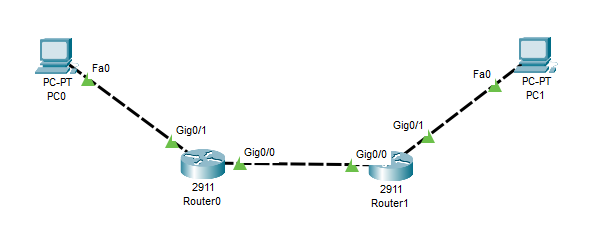
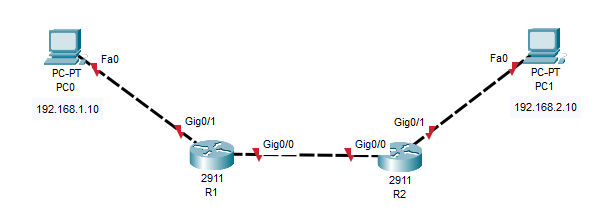
update project

Changed region(s): [[0.0604, 0.1081, 0.9664, 0.8919], [0.8456, 0.4595, 0.9664, 0.5135], [0.0604, 0.4595, 0.1812, 0.5135]]

diff --git a/client/src/views/LAB1.vue b/client/src/views/LAB1.vue
@@ -3,7 +3,7 @@
     <!-- HEADER 1 -->
     <p class="display-2 font-weight-bold mb-3">LAB 1</p>
     <p class="title font-regular">
-      แลปนี้จะเกี่ยวกับการใช้คำสั่งพื้นฐานทั่วไปครับ
+      แลปนี้จะเกี่ยวกับการใช้คำสั่งพื้นฐานทั่วไป
     </p>
 
     <!-- brief -->
@@ -17,7 +17,7 @@
           </p>
           <p class="subtitle-1 text--primary">
             โดยแลปนี้จะเป็นการใช้คำสั่งพื้นฐานทั่วไป เพื่อให้เกิดความคุ้นชินกับคำสั่งที่จะได้ใช้บ่อยๆในการทำแลป <br />
-            เช่น การใช้คำสั่งเพื่อดูค่าที่เราพึ่งตั้งค่าไปหรือการเข้าสู่โหมดต่างๆ และทริคที่จะทำให้ลดเวลาการพิมพ์ได้
+            เช่น การใช้คำสั่งเพื่อดูค่าที่เราพึ่งตั้งค่าไปหรือการเข้าสู่โหมดต่างๆ
           </p>
         </v-card-text>
       </v-card>
@@ -26,20 +26,198 @@
 
     <!-- 1 -->
     <v-row align="center" justify="center">
-      <v-card class="mx-auto" max-width="1500" max-height="2500">
-        <v-card-text>
-          <p class="headline text--primary">คำสั่งเพื่อเข้าสู่โหมดต่างๆ</p>
-          <p class="subtitle-1 text--primary align-right">
-            เข้าสู๋โหมด Privileged Exec หรือบางครั้งจะเรียกว่า Enable mode <br />
-            Router> enable <br />
-            Router# <br />
-            Router# configuration terminal <br />
-            Router(config)# <br />
+      <v-col>
+        <v-card class="mx-auto text-left" min-width="300" min-height="400">
+          <v-card-title>
+            <p class="headline text--primary">คำสั่งเพื่อเข้าสู่โหมดต่างๆ</p>
+          </v-card-title>
+          <v-card-subtitle>
+            <p class="subtitle-1 text--primary">
+              โหมด User<br />
+              Router><br />
+              เข้าสู่โหมด Privileged หรือบางครั้งจะเรียกว่า Enable mode <br />
+              Router> enable <br />
+              Router# <br />
+              เข้าสู่โหมด Global Configuration<br />
+              Router# configuration terminal <br />
+              Router(config)# <br />
+            </p>
+          </v-card-subtitle>
+        </v-card>
+      </v-col>
+      <v-col>
+        <v-card class="mx-auto text-left" min-width="300" min-height="400">
+          <v-card-title>
+            <p class="headline text--primary">
+              อธิบายการใช้งานของแต่ละโหมด
+            </p>
+          </v-card-title>
+          <v-card-subtitle>
+            <p class="subtitle-1 text--primary">
+              User Mode : Prompt ของโหมดนี้จะมีสัญลักษณ์คือ ">" ต่อท้าย
+              โดยโหมดนี้เป็นโหมดที่ไว้ใช้ดูการทำงานทั่วไป
+              สามารถใช้คำสั่งพื้นฐานทั่วไปได้
+              เช่น ping , traceroute , show ip interface เป็นต้น
+            </p>
+            <p class="subtitle-1 text--primary">
+              Privileged Mode : Prompt ของโหมดนี้จะมีสัญลักษณ์คือ "#" ต่อท้าย
+              โดยโหมดนี้สามารถตั้งค่าต่างๆได้
+            </p>
+            <p class="subtitle-1 text--primary">
+              Global Configuration Mode : Prompt ของโหมดนี้จะมีสัญลักษณ์คือ "(config)#" ต่อท้าย
+              โดยโหมดนี้จะสามารถตั้งค่าต่างๆที่ส่งผลกับตัวอุปกรณ์เช่นตั้งค่า Interface ของ Router
+            </p>
+          </v-card-subtitle>
+        </v-card>
+      </v-col>
+    </v-row>
+    <br/>
+
+    <v-row align="center" justify="center">
+      <v-card class="mx-auto text-left" min-width="300" min-height="100">
+        <v-card-title>
+          <p class="headline text--primary">สิ่งที่จะทำในแลปนี้</p>
+        </v-card-title>
+        <v-card-subtitle>
+          <p class="subtitle-1 text--primary">
+            1.เปลี่ยน Hostname จาก Router เป็น R1 ที่ R1<br/>
+            2.เปลี่ยน Hostname จาก Router เป็น R2 ที่ R2<br/>
+            3.ตั้งค่ารหัสผ่านให้กับ R1 และ R2 โดยให้รหัสผ่านคือ LAB1<br/>
+            4.Assign IP ให้กับ R1 ที่ interface GigabitEthernet0/0 โดย IP address คือ 1.1.1.1<br/>
+            5.Assign IP ให้กับ R2 ที่ interface GigabitEthernet0/0 โดย IP address คือ 1.1.1.2<br/>
+            6.Assign IP ให้กับ R1 ที่ interface GigabitEthernet0/1 โดย IP address คือ 192.168.1.1<br/>
+            7.Assign IP ให้กับ R2 ที่ interface GigabitEthernet0/1 โดย IP address คือ 192.168.2.1<br/>
+            8.Set static route ให้กับ R1 เชื่อมต่อไปที่ PC1 ผ่าน R2<br/>
+            9.Set static route ให้กับ R2 เชื่อมต่อไปที่ PC2 ผ่าน R1<br/>
+            10.ทำให้ R1 สามารถ Ping ไปหา R2 ได้<br/>
+
+            11.ที่ R1 ดูว่ามี config อะไรบ้างที่ run อยู่<br/>
+            12.ที่ R2 ดูว่ามี config อะไรบ้างที่ run อยู่<br/>
+            13.copy running-config ของ R1 ไว้ที่ flash memory<br/>
+            14.copy running-config ของ R2 ไว้ที่ flash memory<br/>
+            15.Assign IP ให้กับ PC0 ที่ interface FastEthernet0 โดย IP คือ 192.168.1.10<br/>
+            16.Assign IP ให้กับ PC1 ที่ interface FastEthernet0 โดย IP คือ 192.168.2.10<br/>
+            17.set Default Gateway ให้กับ PC0 โดย IP คือ 192.168.1.1<br/>
+            18.set Default Gateway ให้กับ PC1 โดย IP คือ 192.168.2.1<br/>
+            19.หากทำสำเร็จทุกข้อ PC0 และ PC1 จะสามารถติดต่อหากันได้
+            20.ทำการ ปิดและเปิด R1 และ R2 รอจน Boot เสร็จจากนั้น Ping PC0 ไป PC1 หาก Ping ได้แปลว่าทำแลปสำเร็จ<br/>
           </p>
-        </v-card-text>
+        </v-card-subtitle>
       </v-card>
     </v-row>
-    <br />
+    <br/>
+
+    <v-row align="center" justify="center">
+      <v-card class="mx-auto text-left" min-width="300" min-height="100">
+        <v-card-title>
+          <p class="headline text--primary">เฉลยการทำแลป</p>
+        </v-card-title>
+        <v-card-subtitle>
+          <p class="subtitle-1 text--primary">
+            Would you like to enter the initial configuration dialog? [yes/no]: no<br/>
+            1.เปลี่ยน Hostname จาก Router เป็น R1 ที่ R1<br/>
+            Router> enable<br/>
+            Router# config terminal<br/>
+            Router(config)# hostname R1<br/>
+            R1(config)# <br/><br/>
+
+            2.เปลี่ยน Hostname จาก Router เป็น R2 ที่ R2<br/>
+            Router> enable<br/>
+            Router# config terminal<br/>
+            Router(config)# hostname R2<br/>
+            R2(config)# <br/><br/>
+
+            3.ตั้งค่ารหัสผ่านให้กับ R1 และ R2 โดยให้รหัสผ่านคือ LAB1<br/>
+            R1(config)# enable password LAB1<br/>
+            R2(config)# enable password LAB1<br/><br/>
+
+            4.Assign IP ให้กับ R1 ที่ interface GigabitEthernet0/0 โดย IP address คือ 1.1.1.1/24<br/>
+            R1(config)# int g0/0<br/>
+            R1(config-if)# ip address 1.1.1.1 255.255.255.0<br/><br/>
+
+            5.Assign IP ให้กับ R2 ที่ interface GigabitEthernet0/0 โดย IP address คือ 1.1.1.2<br/>
+            R2(config)# int g0/0<br/>
+            R2(config-if)# ip address 1.1.1.2 255.255.255.0<br/><br/>
+
+            6.Assign IP ให้กับ R1 ที่ interface GigabitEthernet0/1 โดย IP address คือ 192.168.1.1<br/>
+            R1(config)# int g0/1<br/>
+            R1(config-if)# ip address 192.168.1.1 255.255.255.0<br/><br/>
+
+            7.Assign IP ให้กับ R2 ที่ interface GigabitEthernet0/1 โดย IP address คือ 192.168.2.1<br/>
+            R2(config)# int g0/1<br/>
+            R2(config-if)# ip address 192.168.2.1 255.255.255.0<br/><br/>
+
+            8.Set static route ให้กับ R1 เชื่อมต่อไปที่ PC1 ผ่าน R2<br/>
+            R1(config)# ip route 192.168.2.0 255.255.255.0 1.1.1.2<br/>
+            <br/>
+            
+            9.Set static route ให้กับ R2 เชื่อมต่อไปที่ PC2 ผ่าน R1<br/>
+            R2(config)# ip route 192.168.1.0 255.255.255.0 1.1.1.1<br/>
+            <br/>
+
+            10.ทำให้ R1 สามารถ Ping ไปหา R2 ได้<br/>
+            - จะสังเกตุเห็นได้ว่าที่ interface GigabitEthernet0/0 นั้นโดน Shutdown ไว้อยู่<br/>
+            R1(config)# int g0/0<br/>
+            R1(config-if)# no shutdown<br/>
+            - เมื่อเราสั่ง no shutdown แล้วจะเห็นว่า เส้นเชื่อมระหว่าง R1 และ R2 นั้นยังแดงอยู่<br/>
+            - เราต้องไป no shutdown ที่ R2 ด้วย จึงจะสามารถ ping หากันได้<br/>
+            R2(config)# int g0/0<br/>
+            R2(config-if)# no shutdown<br/>
+            - ลอง ping จาก R1 ไป R2 ถ้าเรา config ได้ถูกต้องจะสามารถ ping หากันได้<br/>
+            R1# ping 1.1.1.2<br/>
+            <br/>
+
+            11.ที่ R1 ดูว่ามี config อะไรบ้างที่ run อยู่<br/>
+            R1# show running-config<br/>
+            <br/>
+
+            12.ที่ R2 ดูว่ามี config อะไรบ้างที่ run อยู่<br/>
+            R2# show running-config<br/>
+            <br/>
+
+            13.copy running-config ของ R1 ไว้ที่ startup configuration<br/>
+            R1# copy running-config startup-config<br/>
+            Destination filename [startup-config]?<br/>
+            - จะถามชื่อไฟล์ที่เราจะตั้งชือให้เรากดปุ่ม enter<br/>
+            <br/>
+
+            14.copy running-config ของ R2 ไว้ที่ startup configuration<br/>
+            R2# copy running-config startup-config<br/>
+            Destination filename [startup-config]?<br/>
+            - จะถามชื่อไฟล์ที่เราจะตั้งชือให้เรากดปุ่ม enter<br/>
+            <br/>
+
+            15.Assign IP ให้กับ PC0 ที่ interface FastEthernet0 โดย IP คือ 192.168.1.10<br/>
+            - คลิกที่รูป PC0 -> คลิกที่หน้าต่าง config -> คลิกที่ FastEthernet0 -> ที่ช่อง IP Address ใส่ 192.168.1.10 -> ที่ช่อง Subnet Mask ใส่ 255.255.255.0<br/>
+            <br/>
+
+            16.Assign IP ให้กับ PC1 ที่ interface FastEthernet0 โดย IP คือ 192.168.2.10<br/>
+            - คลิกที่รูป PC1 -> คลิกที่หน้าต่าง config -> คลิกที่ FastEthernet0 -> ที่ช่อง IP Address ใส่ 192.168.2.10 -> ที่ช่อง Subnet Mask ใส่ 255.255.255.0<br/>
+            <br/>
+
+            17.set Default Gateway ให้กับ PC0 โดย IP คือ 192.168.1.1<br/>
+            - คลิกที่ Setting -> ที่ช่อง Gateway ใส่ 192.168.1.1<br/>
+            <br/>
+
+            18.set Default Gateway ให้กับ PC1 โดย IP คือ 192.168.2.1<br/>
+            - คลิกที่ Setting -> ที่ช่อง Gateway ใส่ 192.168.2.1<br/>
+            <br/>
+
+            19.หากทำสำเร็จทุกข้อ PC0 และ PC1 จะสามารถติดต่อหากันได้<br/>
+            - ping จาก PC0 ไป PC1<br/>
+            R1# ping 192.168.1.10<br/>
+            - ping จาก PC1 ไป PC0<br/>
+            R2# ping 192.168.2.10<br/>
+            <br/>
+
+            20.ทำการ ปิดและเปิด R1 และ R2 รอจน Boot เสร็จจากนั้น Ping PC0 ไป PC1 หาก Ping ได้แปลว่าทำแลปสำเร็จ<br/>
+            - คลิกที่ Physical -> ตรง Physical Device View จะเป็นการจำลองรูปแบบของ Router จะเห็น Switch เปิด/ปิด ให้เรากดที่ปุ่มนั้น 1 ครั้งและกดย้ำอีก 1 ครั้ง<br/>
+            - รอจน boot เสร็จและลอง ping จาก R1 ไป R2 ถ้าเรา backup config ไว้ก่อนทำการปิดและเปิดเครื่องอีกครั้งเราจะไม่ต้อง config ค่าอะไรก็จะสามารถติดต่อหากันได้<br/>
+            <br/>
+          </p>
+        </v-card-subtitle>
+      </v-card>
+    </v-row>
   </div>
 </template>
 
@@ -47,7 +225,3 @@
 export default {
 };
 </script>
-
-<style>
-
-</style>

diff --git a/client/src/components/bar.vue b/client/src/components/bar.vue
@@ -1,18 +1,16 @@
 <template>
   <div class="my-2">
-    <v-row>
-      <v-btn text @click="toHome">หน้าแรก</v-btn>
-      <v-btn text @click="toLAB1">LAB1</v-btn>
-      <v-btn text @click="toLAB2">LAB2</v-btn>
-      <v-btn text @click="toLAB3">LAB3</v-btn> 
-      <v-btn text @click="toLAB4">LAB4</v-btn>
-      <v-btn text @click="toLAB5">LAB5</v-btn>
-      <v-btn text @click="toLAB6">LAB6</v-btn>
-      <v-btn text @click="toLAB7">LAB7</v-btn>
-      <v-btn text @click="toLAB8">LAB8</v-btn>
-      <v-btn text @click="toLAB9">LAB9</v-btn>
-      <v-btn text @click="toLAB10">LAB10</v-btn>
-    </v-row>
+    <v-col><v-btn text @click="toHome">หน้าแรก</v-btn></v-col>
+    <v-col><v-btn text @click="toLAB1">LAB1</v-btn></v-col>
+    <v-col><v-btn text @click="toLAB2">LAB2</v-btn></v-col>
+    <v-col><v-btn text @click="toLAB3">LAB3</v-btn></v-col> 
+    <v-col><v-btn text @click="toLAB4">LAB4</v-btn></v-col>
+    <v-col><v-btn text @click="toLAB5">LAB5</v-btn></v-col>
+    <v-col><v-btn text @click="toLAB6">LAB6</v-btn></v-col>
+    <v-col><v-btn text @click="toLAB7">LAB7</v-btn></v-col>
+    <v-col><v-btn text @click="toLAB8">LAB8</v-btn></v-col>
+    <v-col><v-btn text @click="toLAB9">LAB9</v-btn></v-col>
+    <v-col><v-btn text @click="toLAB10">LAB10</v-btn></v-col>
   </div>
 </template>
 

diff --git a/client/src/App.vue b/client/src/App.vue
@@ -2,11 +2,20 @@
   <v-app>
     <div id="app">
       <div id="nav">
-        <v-app-bar app>
+        <v-app-bar app dark>
           <v-toolbar-title>Basic Computer Network</v-toolbar-title>
-          <v-spacer></v-spacer>
-          <v-spacer></v-spacer>
-          <bar />
+          <v-spacer></v-spacer><v-spacer></v-spacer>
+          <v-menu open-on-hover top offset-y>
+            <template v-slot:activator="{ on }">
+              <v-btn text v-on="on">
+                LAB 1-10
+                <v-icon>mdi-menu-down</v-icon>
+              </v-btn>
+            </template>
+            <v-list>
+              <bar/>
+            </v-list>
+          </v-menu>
           <v-app-bar-nav-icon></v-app-bar-nav-icon>
         </v-app-bar>
         <v-content>
